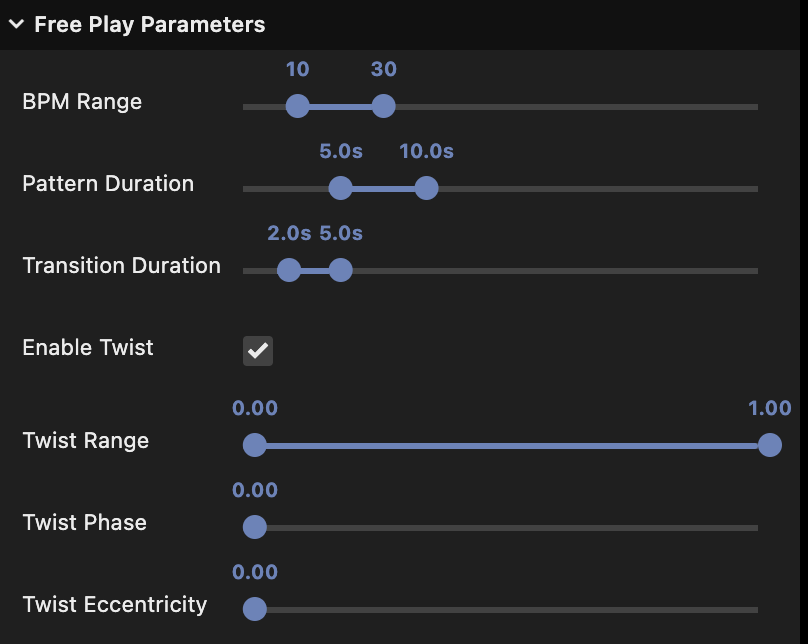
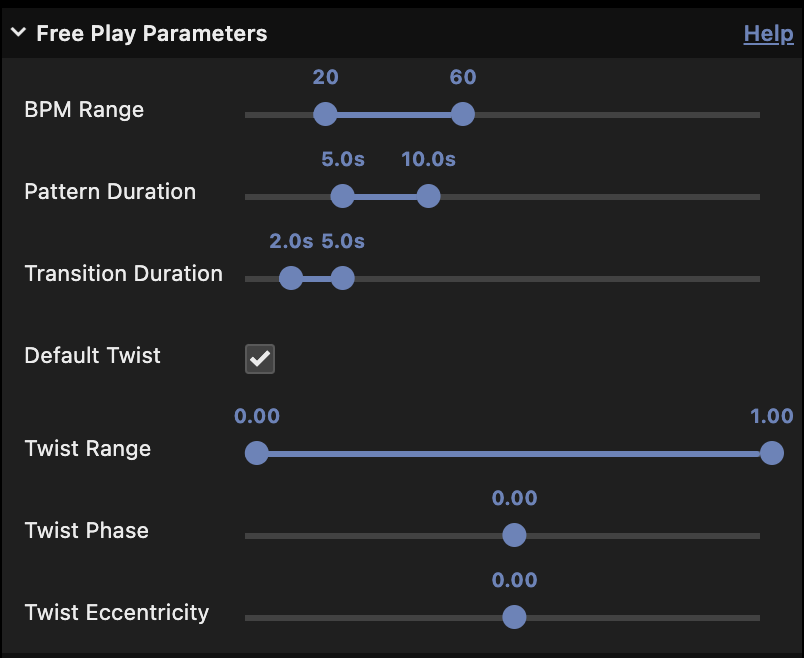
Update docs to for Ayva Stroker Lite v2.

diff --git a/docs/tutorial-ayva-stroker-lite.html b/docs/tutorial-ayva-stroker-lite.html
@@ -129,8 +129,14 @@
 
 <article>
     <p><a href="https://ayvajs.github.io/ayva-stroker-lite/" target="_blank">Ayva Stroker Lite</a> is a small web based random stroker app that uses the <a href="https://developer.mozilla.org/en-US/docs/Web/API/Web_Serial_API" target="_blank">Web Serial API</a> to connect to and control an OSR2 or SR6 device.</p>
+<style>
+  ol.strokes ::marker {
+    font-weight: bold;
+  }
+</style>
 <p>Features:</p>
 <ul>
+<li>Create, import, and export your own custom multiaxis strokes.</li>
 <li>Run any <a href="https://ayvajs.github.io/ayvajs-docs/tutorial-behavior-api-tempest-stroke.html" target="_blank">TempestStroke</a> in Ayva's library.</li>
 <li>Change the speed (bpm) of the currently running stroke.</li>
 <li>Enter Free Play mode where strokes are randomly selected according to user preferences.</li>
@@ -138,7 +144,7 @@
 <li>Smooth transitions between strokes.</li>
 <li>Set the duration range for transitions.</li>
 <li>Set the bpm range (the speed of the next stroke is randomly selected).</li>
-<li>Enable twist movements.</li>
+<li>Enable default twist movements.</li>
 <li>Choose what strokes to include in Free Play mode.</li>
 <li>Set device output limits.</li>
 <li>Connect to device via Web Serial API.</li>
@@ -146,7 +152,20 @@
 </ul>
 <h2>Guide</h2>
 <img src="./images/stroker-lite-guide-1.png">
-<h3>1. Emulator</h3>
+<h3>Contents</h3>
+<ol>
+  <li><a href="#emulator">Emulator</a></li>
+  <li><a href="#output">Output Range and Device Connection</a></li>
+  <li><a href="#controls">Controls</a></li>
+  <li><a href="#parameters">Parameters</a></li>
+  <li><a href="#strokes">Strokes</a></li>
+  <li><a href="#mode">Mode</a></li>
+  <li><a href="#bpm">Current BPM</a></li>
+  <li><a href="#designer">Stroke Designer</a></li>
+  <li><a href="#import-export">Import / Export</a></li>
+  <li><a href="#stroke-format">Stroke File Format</a></li>
+</ol>
+<h3 id="emulator">1. Emulator</h3>
 <p>The emulator provides a 3D simulation of the movements of the device. The current version is of an OSR2+. It does not have a <code>forward</code> or <code>left</code> axis (as available on the SR6), however, movements on those axes are still supported by the application and will be sent to an actual device when connected. Strokes can be played on the emulator alone (a physical device does not have to be connected).</p>
 <p>Controls:</p>
 <ul>
@@ -154,41 +173,111 @@
 <li><em>Mousewheel</em> to zoom in and out.</li>
 <li><em>Shift+Click+Drag</em> to pan.</li>
 </ul>
-<h3>2. Output Range and Device Connection</h3>
+<h3 id="output">2. Output Range and Device Connection</h3>
 <p><img width="350px" src="./images/stroker-lite-guide-output-range.png"><br/></p>
 <p>This section allows you to set the output range for all supported axes (linear and rotational). The details on how Ayva scales output can be found in the <a href="https://ayvajs.github.io/ayvajs-docs/tutorial-configuration.html" target="_blank">Configuration</a> documentation under the Axis Limits section.</p>
 <p>The button in the top right gives the device connection status. Clicking it will open the built-in Web Serial API window of the browser that allows you to select a device to connect to. <em>For safety reasons, connections can only be made when in <strong>Stopped</strong> mode. You will not be able to connect to a device if a stroke is currently playing.</em></p>
-<h3>3. Controls</h3>
+<h3 id="controls">3. Controls</h3>
 <img width="500px" src="./images/stroker-lite-guide-controls.png">  
 <ul>
 <li><strong>Home Device</strong>: Stops the current behavior and moves the device to the home position.</li>
 <li><strong>Free Play</strong>: Commands Ayva to start playing strokes randomly according to the current parameters.</li>
 <li><strong>Stop (Esc)</strong>: Immediately stops the current behavior and ceases to send any output to the device. Pressing the <em>Escape</em> key will also trigger this action.</li>
 </ul>
-<h3>4. Parameters</h3>
+<h3 id="parameters">4. Parameters</h3>
 <p><img width="500px" src="./images/stroker-lite-guide-parameters.png"><br/></p>
 <p>This section allows you to set the parameters that are used during free play mode (and some for manually triggered strokes). All parameters in this section only take effect on the <em>next</em> stroke played.</p>
 <ul>
 <li><strong>BPM Range</strong>: The speed range of strokes in beats per minute. When a stroke is randomly selected, it will pick a random speed within this range.</li>
 <li><strong>Pattern Duration</strong>: The duration range of strokes in seconds. When a stroke is randomly selected, it will last for a random amount of seconds within this range.</li>
 <li><strong>Transition Duration</strong>: The duration range for smooth transitions in seconds. When a new stroke is starting, the transition into the new stroke will take a random amount of seconds within this range.</li>
-<li><strong>Enable Twist</strong>: Currently, all patterns in the default library of strokes do not have any movement on the twist axis. This option allows you to add custom motion to the twist axis for all strokes.</li>
+<li><strong>Default Twist</strong>: This option allows you to add custom motion to the twist axis for any stroke that doesn't have it (i.e. the twist motion specified here only takes effect if the current stroke playing does not have its own twist).</li>
 <li><strong>Twist Range</strong>: When twist is enabled, this allows you to specify the range of the twist motion.</li>
 <li><strong>Twist Phase</strong>: When twist is enabled, this allows you to specify the <em>phase</em> of the twist motion.</li>
 <li><strong>Twist Eccentricity</strong>: When twist is enabled, this allows you to specify the <em>eccentricity</em> of the twist motion.</li>
 </ul>
 <p>The twist motion (like any other axis motion for TempestStrokes) is a <strong>cosine</strong> shaped movement. See the <a href="https://ayvajs.github.io/ayvajs-docs/tutorial-behavior-api-tempest-stroke.html" target="_blank">TempestStroke</a> documentation for additional details on parameters such as phase and eccentricity.</p>
-<h3>5. Strokes</h3>
+<h3 id="strokes">5. Strokes</h3>
 <p><img width="500px" src="./images/stroker-lite-guide-strokes.png"><br/></p>
-<p>This section allows you to choose what strokes are included in free play mode, or to manually trigger a stroke. Manually triggering a stroke transitions out of free play mode. In manual mode, the current stroke will play continuously until another stroke is selected or free play mode is triggered. All transitions between free play and manual mode are smooth.</p>
-<p>The top right will update to show the current stroke that is playing, as well as when a transition is occurring.</p>
-<h3>6. Mode</h3>
+<p>This section allows you to manage strokes.</p>
+<ol class="strokes" style="list-style-type: upper-alpha">
+  <li>Select what strokes to include in free play mode. The top most checkbox can be used to select or deselect all strokes.</li>
+  <li>Manually trigger a stroke. Manually triggering a stroke transitions out of free play mode. In manual mode, the current stroke will play continuously until another stroke is selected or free play mode is triggered.</li>
+  <li>Hover over the <i>eye</i> icon to quickly view a preview of the corresponding stroke.</li>
+  <li>Access create, import, and export strokes functionality. These features are covered in the <a href="#designer">Stroke Designer</a> section. This menu can only be accessed in Stopped mode. When a stroke is playing this area will instead show the current stroke, as well as when a transition is occurring.</li>
+</ol>
+<h3 id="mode">6. Mode</h3>
 <p><img width="200px" src="./images/stroker-lite-guide-mode.png"><br/></p>
 <p>This label displays the current mode. It will be either <strong>Stopped</strong>, <strong>Free Play</strong>, or <strong>Manual</strong>.</p>
-<h3>7. Current BPM</h3>
+<h3 id="bpm">7. Current BPM</h3>
 <p><img width="600px" src="./images/stroker-lite-guide-current-bpm.png"><br/></p>
 <p>This slider shows the current speed. In both <strong>Free Play</strong> and <strong>Manual</strong> mode the speed of the current stroke can be changed in real time. However, while you can set the speed in <strong>Free Play</strong> mode, Ayva can (and likely <strong>will</strong>) choose a new speed when it decides to play a new stroke. But Ayva will never changes strokes while you are dragging the slider. This means that if you are in Free Play mode and you would like to stay on the current pattern without leaving Free Play, you could keep the bpm slider engaged until you are ready to switch.</p>
 <p>Manually updating the bpm is not allowed during a transition (the widget will be disabled), as Ayva has full control of the speed during that time.</p>
+<h3 id="designer">8. Stroke Designer</h3>
+<p><img width="600px" src="./images/stroker-lite-guide-designer-1.png"><br/></p>
+<p>The stroke designer can be accessed by clicking the <em>gear</em> icon in the top right of the <em>Strokes</em> section, then clicking <em>Create</em>.</p>
+<br/>  
+<p><img width="900px" src="./images/stroker-lite-guide-designer-2.png"><br/></p>
+<ol class="strokes" style="list-style: upper-alpha">
+  <li>Clicking the axes button allows you to select which axes to include in your stroke. All axes of an SR6 device are available.</li>
+  <li>Motion can be specified for each axis with an interactive graph widget. The parameters available are:<ul>
+      <li><b>Range:</b> The left slider sets the range. This is a dual slider specifying the <i>from</i> and <i>to</i> values for the motion. The knobs can be slid past each other to change the shape of the motion, as well as be set to the same value if you want the axis to hold a value for the duration of the motion.</li>
+      <li><b>Phase:</b> The bottom left slider sets the phase of the motion.</li>
+      <li><b>Eccentricity.:</b> The bottom right slider sets the eccentricity of the motion.</li>
+    </ul>
+    Use the middle mouse over a graph to quickly expand or contract the range.
+    <br/>Double click a slider knob to reset to default value(s). 
+    <br/>The progress dot on the graph will move along with the current motion in real time.
+    <br/><br/><img width="450px" src="./images/demo-tempest-motion.gif">
+    <br/><br/>Note that when there are more axes than available space you can scroll to view the additional axes.<br/><br/>
+  </li>
+  <li>The current motion will automatically preview on the emulator. The BPM can be adjusted to preview at higher or lower speeds.</li>
+  <li>If a device is connected, you can optionally send the preview of the stroke to the actual device. This option is disabled by default, and will be unavailable if there is no device connected.</li>
+  <li>Clicking the preset button will open a dropdown allowing you to select a stroke from the library (custom or default) as a starting point. You may also cycle through the presets by clicking the arrows.</li>
+  <li>You can give your stroke a name and add it to the library. Names are restricted to lowercase alphanumeric characters and dashes, and must be unique. When a stroke is added to the library, it will be made available on the main screen for use in Free Play or Manual modes. It will also be available as a preset if you return to the stroke designer later.</li>
+</ol>
+<p>Strokes can be editted by clicking the <em>gear</em> icon next to them on the main screen.</p>
+<p>Note that all strokes are saved in the local storage of the browser, so they will remain between sessions. However, if you clear your browser storage then you will lose your strokes. To make a backup of your stroke(s) (or to share your strokes with others) you can use the import/export functionality as detailed in the next section.</p>
+<h3 id="import-export">9. Import / Export</h3>
+<p><img width="600px" src="./images/stroker-lite-guide-designer-3.png"><br/></p>
+<p>Import or Export can be accessed by clicking the <em>gear</em> icon in the top right of the <em>Strokes</em> section. These will open the browser file dialogs and allow you to import or export a stroke file. When exporting this way, all custom strokes will be exported. The option to export an individual stroke can be found by clicking the <em>gear</em> icon next to the desired stroke:</p>
+<p><img width="600px" src="./images/stroker-lite-guide-designer-4.png"><br/></p>
+<p><em>Note that this is also how you access the Edit and Delete functionality.</em></p>
+<h3 id="stroke-format">10. Stroke File Format</h3>
+<p>Stroke files are <a href="https://www.json.org/json-en.html" target="_blank">JSON</a> files. The top level object is an array containing all the strokes. Each stroke has the following properties:</p>
+<ul>
+  <li><code>name</code>: alphanumeric, dash separated name of the stroke.</li>
+  <li><code>type</code>: currently the only supported type is <b>tempest-stroke</b></li>
+  <li><code>data</code>: an object containing the stroke parameters, keyed by axis name or alias.</code></li>
+</ul>
+<h4>Example</h4>
+<pre class="prettyprint source lang-javascript"><code>[
+  {
+    &quot;name&quot;: &quot;my-orbit-grind&quot;,
+    &quot;type&quot;: &quot;tempest-stroke&quot;,
+    &quot;data&quot;: {
+      &quot;L0&quot;: {
+        &quot;from&quot;: 0,
+        &quot;to&quot;: 0.6,
+        &quot;phase&quot;: 0,
+        &quot;ecc&quot;: 0.3
+      },
+      &quot;R1&quot;: {
+        &quot;from&quot;: 0.1,
+        &quot;to&quot;: 0.9,
+        &quot;phase&quot;: 1,
+        &quot;ecc&quot;: -0.3
+      },
+      &quot;R2&quot;: {
+        &quot;from&quot;: 0.9,
+        &quot;to&quot;: 0.1,
+        &quot;phase&quot;: 0,
+        &quot;ecc&quot;: -0.3
+      }
+    }
+  }
+]
+</code></pre>
 </article>
 
 </section>

diff --git a/tutorials/ayva-stroker-lite.md b/tutorials/ayva-stroker-lite.md
@@ -1,7 +1,13 @@
 <a href="https://ayvajs.github.io/ayva-stroker-lite/" target="_blank">Ayva Stroker Lite</a> is a small web based random stroker app that uses the <a href="https://developer.mozilla.org/en-US/docs/Web/API/Web_Serial_API" target="_blank">Web Serial API</a> to connect to and control an OSR2 or SR6 device.  
 
+<style>
+  ol.strokes ::marker {
+    font-weight: bold;
+  }
+</style>
 Features:
 
+- Create, import, and export your own custom multiaxis strokes.
 - Run any <a href="https://ayvajs.github.io/ayvajs-docs/tutorial-behavior-api-tempest-stroke.html" target="_blank">TempestStroke</a> in Ayva's library.
 - Change the speed (bpm) of the currently running stroke.
 - Enter Free Play mode where strokes are randomly selected according to user preferences.
@@ -9,7 +15,7 @@ Features:
 - Smooth transitions between strokes.
 - Set the duration range for transitions.
 - Set the bpm range (the speed of the next stroke is randomly selected).
-- Enable twist movements.
+- Enable default twist movements.
 - Choose what strokes to include in Free Play mode.
 - Set device output limits.
 - Connect to device via Web Serial API.
@@ -19,7 +25,21 @@ Features:
 
 <img src="./images/stroker-lite-guide-1.png">
 
-### 1. Emulator
+### Contents
+<ol>
+  <li><a href="#emulator">Emulator</a></li>
+  <li><a href="#output">Output Range and Device Connection</a></li>
+  <li><a href="#controls">Controls</a></li>
+  <li><a href="#parameters">Parameters</a></li>
+  <li><a href="#strokes">Strokes</a></li>
+  <li><a href="#mode">Mode</a></li>
+  <li><a href="#bpm">Current BPM</a></li>
+  <li><a href="#designer">Stroke Designer</a></li>
+  <li><a href="#import-export">Import / Export</a></li>
+  <li><a href="#stroke-format">Stroke File Format</a></li>
+</ol>
+
+<h3 id="emulator">1. Emulator</h3>
 
 The emulator provides a 3D simulation of the movements of the device. The current version is of an OSR2+. It does not have a ```forward``` or ```left``` axis (as available on the SR6), however, movements on those axes are still supported by the application and will be sent to an actual device when connected. Strokes can be played on the emulator alone (a physical device does not have to be connected).
 
@@ -28,7 +48,7 @@ Controls:
 - _Mousewheel_ to zoom in and out.
 - _Shift+Click+Drag_ to pan.
 
-### 2. Output Range and Device Connection
+<h3 id="output">2. Output Range and Device Connection</h3>
 
 <img width="350px" src="./images/stroker-lite-guide-output-range.png"><br/> 
 
@@ -36,7 +56,7 @@ This section allows you to set the output range for all supported axes (linear a
 
 The button in the top right gives the device connection status. Clicking it will open the built-in Web Serial API window of the browser that allows you to select a device to connect to. _For safety reasons, connections can only be made when in __Stopped__ mode. You will not be able to connect to a device if a stroke is currently playing._
 
-### 3. Controls
+<h3 id="controls">3. Controls</h3>
 
 <img width="500px" src="./images/stroker-lite-guide-controls.png">  
 
@@ -44,7 +64,7 @@ The button in the top right gives the device connection status. Clicking it will
 - __Free Play__: Commands Ayva to start playing strokes randomly according to the current parameters.
 - __Stop (Esc)__: Immediately stops the current behavior and ceases to send any output to the device. Pressing the _Escape_ key will also trigger this action.
 
-### 4. Parameters
+<h3 id="parameters">4. Parameters</h3>
 
 <img width="500px" src="./images/stroker-lite-guide-parameters.png"><br/>  
 
@@ -53,31 +73,122 @@ This section allows you to set the parameters that are used during free play mod
 - __BPM Range__: The speed range of strokes in beats per minute. When a stroke is randomly selected, it will pick a random speed within this range.
 - __Pattern Duration__: The duration range of strokes in seconds. When a stroke is randomly selected, it will last for a random amount of seconds within this range.
 - __Transition Duration__: The duration range for smooth transitions in seconds. When a new stroke is starting, the transition into the new stroke will take a random amount of seconds within this range.
-- __Enable Twist__: Currently, all patterns in the default library of strokes do not have any movement on the twist axis. This option allows you to add custom motion to the twist axis for all strokes.
+- __Default Twist__: This option allows you to add custom motion to the twist axis for any stroke that doesn't have it (i.e. the twist motion specified here only takes effect if the current stroke playing does not have its own twist).
 - __Twist Range__: When twist is enabled, this allows you to specify the range of the twist motion.
 - __Twist Phase__: When twist is enabled, this allows you to specify the _phase_ of the twist motion.
 - __Twist Eccentricity__: When twist is enabled, this allows you to specify the _eccentricity_ of the twist motion.
 
 The twist motion (like any other axis motion for TempestStrokes) is a __cosine__ shaped movement. See the <a href="https://ayvajs.github.io/ayvajs-docs/tutorial-behavior-api-tempest-stroke.html" target="_blank">TempestStroke</a> documentation for additional details on parameters such as phase and eccentricity.
 
-### 5. Strokes
+<h3 id="strokes">5. Strokes</h3>
 
 <img width="500px" src="./images/stroker-lite-guide-strokes.png"><br/>  
 
-This section allows you to choose what strokes are included in free play mode, or to manually trigger a stroke. Manually triggering a stroke transitions out of free play mode. In manual mode, the current stroke will play continuously until another stroke is selected or free play mode is triggered. All transitions between free play and manual mode are smooth.
+This section allows you to manage strokes.
+<ol class="strokes" style="list-style-type: upper-alpha">
+  <li>Select what strokes to include in free play mode. The top most checkbox can be used to select or deselect all strokes.</li>
+  <li>Manually trigger a stroke. Manually triggering a stroke transitions out of free play mode. In manual mode, the current stroke will play continuously until another stroke is selected or free play mode is triggered.</li>
+  <li>Hover over the <i>eye</i> icon to quickly view a preview of the corresponding stroke.</li>
+  <li>Access create, import, and export strokes functionality. These features are covered in the <a href="#designer">Stroke Designer</a> section. This menu can only be accessed in Stopped mode. When a stroke is playing this area will instead show the current stroke, as well as when a transition is occurring.</li>
+</ol>
 
-The top right will update to show the current stroke that is playing, as well as when a transition is occurring.
-
-### 6. Mode
+<h3 id="mode">6. Mode</h3>
 
 <img width="200px" src="./images/stroker-lite-guide-mode.png"><br/>  
 
 This label displays the current mode. It will be either __Stopped__, __Free Play__, or __Manual__.
 
-### 7. Current BPM
+<h3 id="bpm">7. Current BPM</h3>
 
 <img width="600px" src="./images/stroker-lite-guide-current-bpm.png"><br/>  
 
 This slider shows the current speed. In both __Free Play__ and __Manual__ mode the speed of the current stroke can be changed in real time. However, while you can set the speed in __Free Play__ mode, Ayva can (and likely __will__) choose a new speed when it decides to play a new stroke. But Ayva will never changes strokes while you are dragging the slider. This means that if you are in Free Play mode and you would like to stay on the current pattern without leaving Free Play, you could keep the bpm slider engaged until you are ready to switch.
 
 Manually updating the bpm is not allowed during a transition (the widget will be disabled), as Ayva has full control of the speed during that time.
+
+<h3 id="designer">8. Stroke Designer</h3>
+
+<img width="600px" src="./images/stroker-lite-guide-designer-1.png"><br/>
+
+The stroke designer can be accessed by clicking the _gear_ icon in the top right of the _Strokes_ section, then clicking _Create_.
+ 
+<br/>  
+
+<img width="900px" src="./images/stroker-lite-guide-designer-2.png"><br/>  
+
+<ol class="strokes" style="list-style: upper-alpha">
+  <li>Clicking the axes button allows you to select which axes to include in your stroke. All axes of an SR6 device are available.</li>
+  <li>Motion can be specified for each axis with an interactive graph widget. The parameters available are:<ul>
+      <li><b>Range:</b> The left slider sets the range. This is a dual slider specifying the <i>from</i> and <i>to</i> values for the motion. The knobs can be slid past each other to change the shape of the motion, as well as be set to the same value if you want the axis to hold a value for the duration of the motion.</li>
+      <li><b>Phase:</b> The bottom left slider sets the phase of the motion.</li>
+      <li><b>Eccentricity.:</b> The bottom right slider sets the eccentricity of the motion.</li>
+    </ul>
+    Use the middle mouse over a graph to quickly expand or contract the range.
+    <br/>Double click a slider knob to reset to default value(s). 
+    <br/>The progress dot on the graph will move along with the current motion in real time.
+    <br/><br/><img width="450px" src="./images/demo-tempest-motion.gif">
+    <br/><br/>Note that when there are more axes than available space you can scroll to view the additional axes.<br/><br/>
+
+  </li>
+  <li>The current motion will automatically preview on the emulator. The BPM can be adjusted to preview at higher or lower speeds.</li>
+  <li>If a device is connected, you can optionally send the preview of the stroke to the actual device. This option is disabled by default, and will be unavailable if there is no device connected.</li>
+  <li>Clicking the preset button will open a dropdown allowing you to select a stroke from the library (custom or default) as a starting point. You may also cycle through the presets by clicking the arrows.</li>
+  <li>You can give your stroke a name and add it to the library. Names are restricted to lowercase alphanumeric characters and dashes, and must be unique. When a stroke is added to the library, it will be made available on the main screen for use in Free Play or Manual modes. It will also be available as a preset if you return to the stroke designer later.</li>
+</ol>
+
+Strokes can be editted by clicking the _gear_ icon next to them on the main screen.
+  
+Note that all strokes are saved in the local storage of the browser, so they will remain between sessions. However, if you clear your browser storage then you will lose your strokes. To make a backup of your stroke(s) (or to share your strokes with others) you can use the import/export functionality as detailed in the next section.
+
+<h3 id="import-export">9. Import / Export</h3>
+
+<img width="600px" src="./images/stroker-lite-guide-designer-3.png"><br/>
+
+Import or Export can be accessed by clicking the _gear_ icon in the top right of the _Strokes_ section. These will open the browser file dialogs and allow you to import or export a stroke file. When exporting this way, all custom strokes will be exported. The option to export an individual stroke can be found by clicking the _gear_ icon next to the desired stroke:
+
+<img width="600px" src="./images/stroker-lite-guide-designer-4.png"><br/>
+
+_Note that this is also how you access the Edit and Delete functionality._
+
+<h3 id="stroke-format">10. Stroke File Format</h3>
+
+Stroke files are <a href="https://www.json.org/json-en.html" target="_blank">JSON</a> files. The top level object is an array containing all the strokes. Each stroke has the following properties:
+
+<ul>
+  <li><code>name</code>: alphanumeric, dash separated name of the stroke.</li>
+  <li><code>type</code>: currently the only supported type is <b>tempest-stroke</b></li>
+  <li><code>data</code>: an object containing the stroke parameters, keyed by axis name or alias.</code></li>
+</ul>
+
+#### Example
+
+```javascript
+[
+  {
+    "name": "my-orbit-grind",
+    "type": "tempest-stroke",
+    "data": {
+      "L0": {
+        "from": 0,
+        "to": 0.6,
+        "phase": 0,
+        "ecc": 0.3
+      },
+      "R1": {
+        "from": 0.1,
+        "to": 0.9,
+        "phase": 1,
+        "ecc": -0.3
+      },
+      "R2": {
+        "from": 0.9,
+        "to": 0.1,
+        "phase": 0,
+        "ecc": -0.3
+      }
+    }
+  }
+]
+```
+
+
